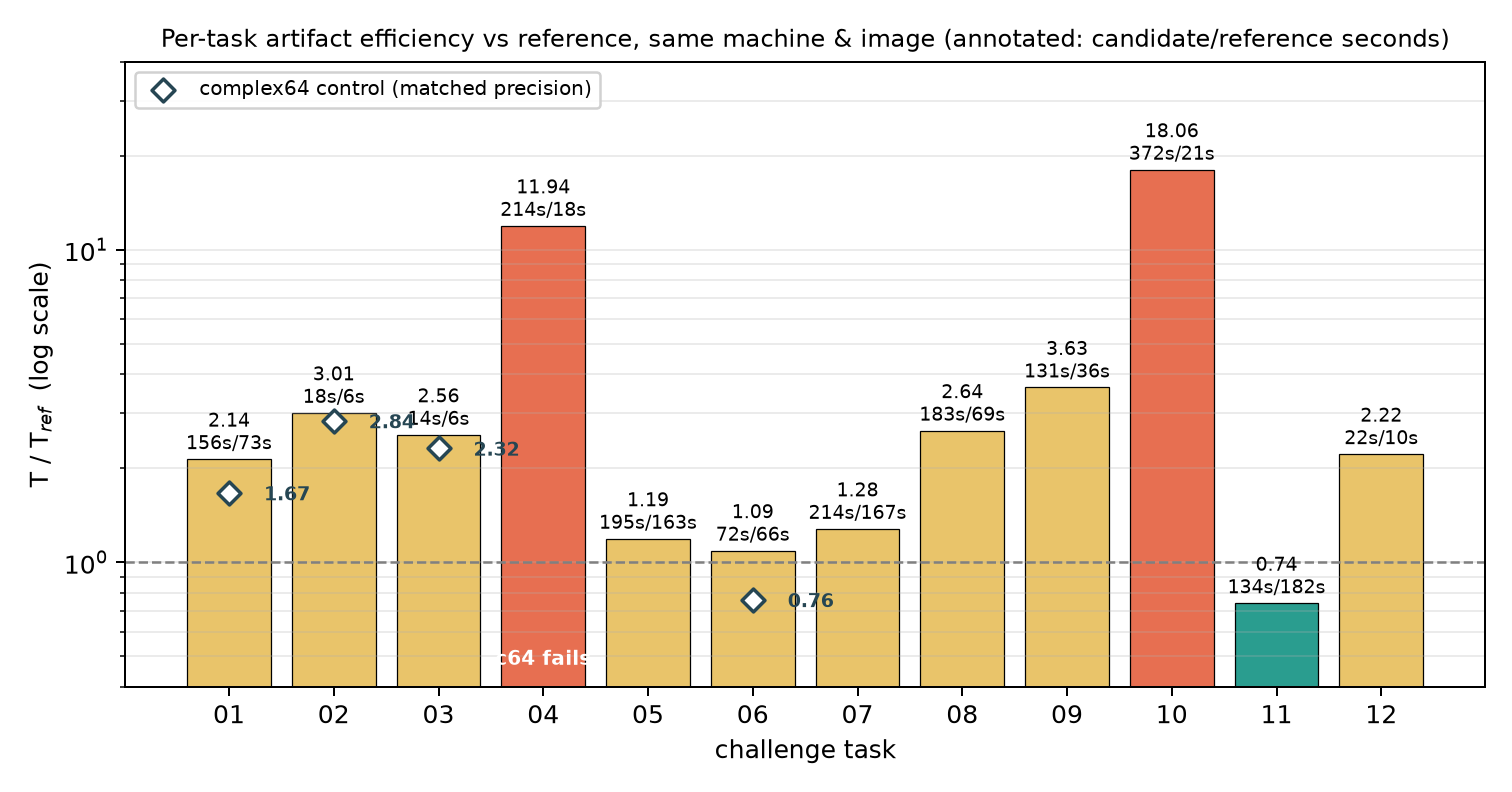
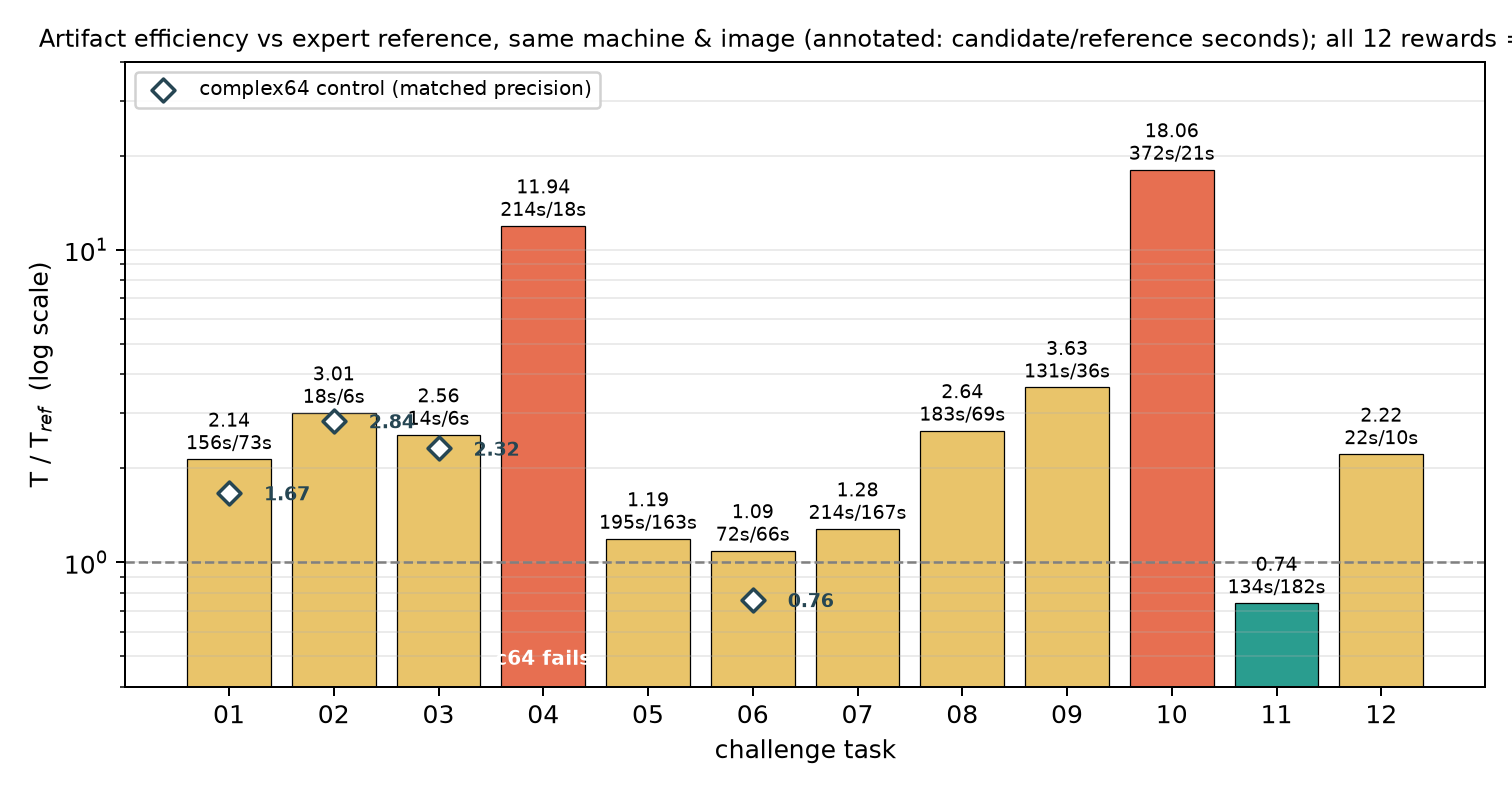
Figures rework for PR: drop redundant dual-axis scatter; add fig4-style agent resource-use figure (solve wall time + artifact runtime); record solve-time data with method note

Changed region(s): [[0.0311, 0.0303, 1.0, 0.0606]]

diff --git a/results/fable5/tools/make_figures.py b/results/fable5/tools/make_figures.py
@@ -1,12 +1,11 @@
-"""Generate paper-style summary figures from the recorded per-task results.
+"""Generate the two paper-style summary figures (mirroring the upstream
+README "Main Results" pair: one artifact-efficiency figure, one resource-use
+figure) from the recorded per-task results.
 
-Reads challenge-NN/reward.json (official stamps) and
-challenge-NN/runtime-comparison.json, writes two figures into figs/.
-The dual-axis scatter uses unified matched-precision (complex64) ratios:
-the publication references all run complex64, so tasks whose official
-candidate ran complex128 are plotted with their complex64-control ratio;
-task 04's control fails functionally, so it is plotted at its official
-(complex128) ratio with a distinct marker.
+Reads challenge-NN/reward.json (official stamps),
+challenge-NN/runtime-comparison.json, and agent_solve_time.json, writes:
+  figs/fable5_ratio_bars.png         - artifact efficiency vs expert reference
+  figs/fable5_agent_resource_use.png - agent solve time + artifact runtime
 Run from the repository root:  python3 results/fable5/tools/make_figures.py
 """
 import json
@@ -21,7 +20,8 @@ ROOT = Path(__file__).resolve().parents[1]
 FIGS = ROOT / "figs"
 FIGS.mkdir(exist_ok=True)
 
-tasks, official, matched, needs_c128, rewards, cand_t, ref_t = [], [], [], [], [], [], []
+tasks, official, matched, needs_c128 = [], [], [], []
+cand_t, ref_t, stamp_t = [], [], []
 for nn in range(1, 13):
     d = ROOT / f"challenge-{nn:02d}"
     rc = json.loads((d / "runtime-comparison.json").read_text())
@@ -33,50 +33,25 @@ for nn in range(1, 13):
     mc = rc.get("matched_precision_control")
     if mc and mc.get("matched_precision_ratio"):
         m, req128 = mc["matched_precision_ratio"], False
-    elif mc:  # complex64 control exists but fails functionally
+    elif mc:
         m, req128 = off, True
-    else:  # official candidate already complex64 => already matched
+    else:
         m, req128 = off, False
     tasks.append(f"{nn:02d}")
     official.append(off)
     matched.append(m)
     needs_c128.append(req128)
-    rewards.append(rw["reward"])
     cand_t.append(cand)
     ref_t.append(ref)
+    stamp_t.append(rw["runtime_sec"])
+
+solve = json.loads((ROOT / "agent_solve_time.json").read_text())["solve_wall_time_min"]
+solve_min = [solve[t] for t in tasks]
 
 official = np.array(official)
 matched = np.array(matched)
-rewards = np.array(rewards)
 
-# --- Figure 1: dual-axis scatter, unified matched-precision (complex64) ---
-fig, ax = plt.subplots(figsize=(7.2, 4.6))
-colors = plt.cm.viridis(np.linspace(0.1, 0.9, len(tasks)))
-for x, y, t, c, req in zip(matched, rewards, tasks, colors, needs_c128):
-    marker = "s" if req else "o"
-    ax.scatter(x, y, s=110, color=c, marker=marker, edgecolor="black",
-               linewidth=0.6, zorder=3)
-    dy = -18 if t == "06" else 9  # keep the 06/11 labels from colliding
-    ax.annotate(t, (x, y), textcoords="offset points", xytext=(0, dy),
-                ha="center", fontsize=9)
-ax.axvline(1.0, color="gray", linestyle="--", linewidth=1, zorder=1)
-ax.text(1.0, 0.62, " expert reference\n (T/T_ref = 1)", fontsize=8, color="gray")
-ax.scatter([], [], marker="s", s=90, color="lightgray", edgecolor="black",
-           label="requires complex128 (c64 control fails); plotted at official ratio")
-ax.legend(loc="lower right", fontsize=7.5, framealpha=0.9)
-ax.set_xscale("log")
-ax.set_xlim(0.5, 30)
-ax.set_ylim(0.55, 1.08)
-ax.set_xlabel("artifact runtime ratio  T / T$_{ref}$  at matched precision, complex64  (log scale)")
-ax.set_ylabel("official pass reward\n(functional x static x LLM audit)")
-ax.set_title("ORBIT-Q agent axis: Fable 5 (Cursor agent) x TensorCircuit-NG\n"
-             "all 12 tasks pass with reward = 1.0; matched-precision efficiency 0.74x - 18.1x",
-             fontsize=10)
-ax.grid(alpha=0.25, which="both")
-fig.tight_layout()
-fig.savefig(FIGS / "fable5_dual_axis_scatter.png", dpi=180)
-
-# --- Figure 2: per-task official bars + matched-precision control diamonds ---
+# --- Figure 1: per-task artifact efficiency (official bars + c64 controls) ---
 fig, ax = plt.subplots(figsize=(8.4, 4.4))
 bar_colors = ["#2a9d8f" if r <= 1.0 else "#e9c46a" if r <= 4 else "#e76f51" for r in official]
 bars = ax.bar(tasks, official, color=bar_colors, edgecolor="black", linewidth=0.5)
@@ -100,12 +75,42 @@ ax.set_yscale("log")
 ax.set_ylim(0.4, 40)
 ax.set_xlabel("challenge task")
 ax.set_ylabel("T / T$_{ref}$  (log scale)")
-ax.set_title("Per-task artifact efficiency vs reference, same machine & image "
-             "(annotated: candidate/reference seconds)", fontsize=9.5)
+ax.set_title("Artifact efficiency vs expert reference, same machine & image "
+             "(annotated: candidate/reference seconds); all 12 rewards = 1.0", fontsize=9.5)
 ax.grid(alpha=0.25, axis="y", which="both")
 fig.tight_layout()
 fig.savefig(FIGS / "fable5_ratio_bars.png", dpi=180)
 
+# --- Figure 2: agent-side solve cost + artifact runtime (fig4-style) ---
+fig, (ax1, ax2) = plt.subplots(1, 2, figsize=(10.2, 4.0))
+ax1.bar(tasks, solve_min, color="#457b9d", edgecolor="black", linewidth=0.5)
+for i, v in enumerate(solve_min):
+    ax1.annotate(str(v), (i, v), textcoords="offset points", xytext=(0, 3),
+                 ha="center", fontsize=8)
+ax1.set_xlabel("challenge task")
+ax1.set_ylabel("agent solve wall time (min)")
+ax1.set_title("Agent-side cost: solve wall time per task\n"
+              "(session-timeline reconstruction; includes prototyping and\n"
+              "failed iterations; token/service cost not exposed by harness)",
+              fontsize=9)
+ax1.grid(alpha=0.25, axis="y")
+
+ax2.bar(tasks, stamp_t, color="#8d99ae", edgecolor="black", linewidth=0.5,
+        label="candidate (official stamp)")
+ax2.scatter(tasks, ref_t, marker="_", s=220, color="#d62828", linewidth=2.5,
+            label="expert reference (same machine)", zorder=4)
+ax2.axhline(300, color="gray", linestyle=":", linewidth=1)
+ax2.text(-0.45, 300, "300s budget ", fontsize=7.5, color="gray", va="bottom")
+ax2.set_yscale("log")
+ax2.set_xlabel("challenge task")
+ax2.set_ylabel("artifact runtime (s, log)")
+ax2.set_title("Artifact-side cost: evaluator-timed runtime\n"
+              "(bars: stamped candidate; red dashes: expert reference)",
+              fontsize=9)
+ax2.legend(loc="lower right", fontsize=7.5, framealpha=0.9)
+ax2.grid(alpha=0.25, axis="y", which="both")
+fig.tight_layout()
+fig.savefig(FIGS / "fable5_agent_resource_use.png", dpi=180)
+
 print("figures written:", sorted(p.name for p in FIGS.iterdir()))
-print("official:", dict(zip(tasks, np.round(official, 2))))
-print("matched :", dict(zip(tasks, np.round(matched, 2))))
+print("total solve time:", sum(solve_min), "min")

diff --git a/results/fable5/REPORT.md b/results/fable5/REPORT.md
@@ -3,8 +3,13 @@
 日期：2026-07-27 ~ 2026-07-28 · 求解模型：Fable 5（Cursor Agent）· 框架：TensorCircuit-NG
 最终结果：**12/12 题官方 reward = 1.0**（functional × static × LLM audit 全满分）· T/T_ref 中位数 **2.39**（最好 0.74，最差 18.06）
 
-![dual axis](figs/fable5_dual_axis_scatter.png)
 ![ratio bars](figs/fable5_ratio_bars.png)
+![agent resource use](figs/fable5_agent_resource_use.png)
+
+图表口径(对齐上游 README Main Results 的两图结构):第一张为产物效率
+(官方比值柱 + complex64 同精度对照菱形);第二张为资源消耗——左侧 agent 求解
+墙钟时间(会话时间线重建,总计约 290 分钟;Cursor harness 不暴露 token/服务
+成本,故如实缺省),右侧为官方盖章的产物运行时长与同机专家参考对照。
 
 ## 一、混合流程是怎么运作的
 
